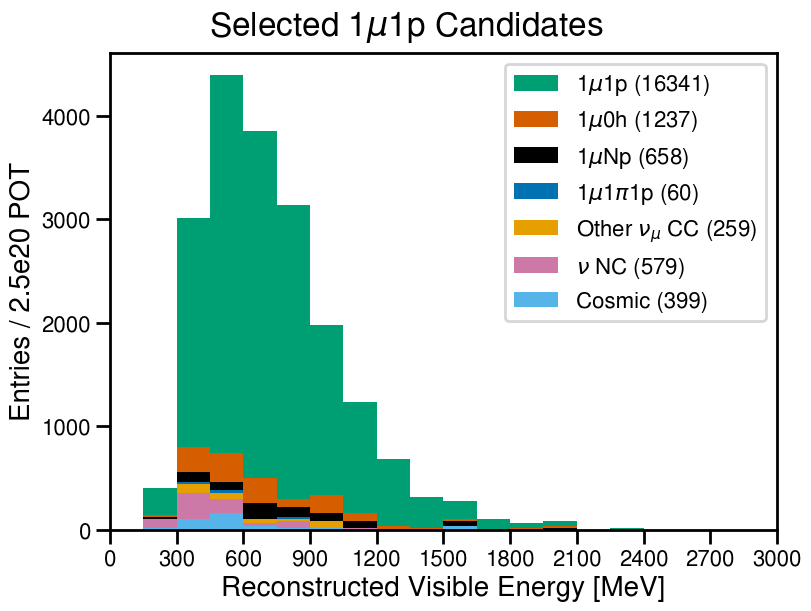
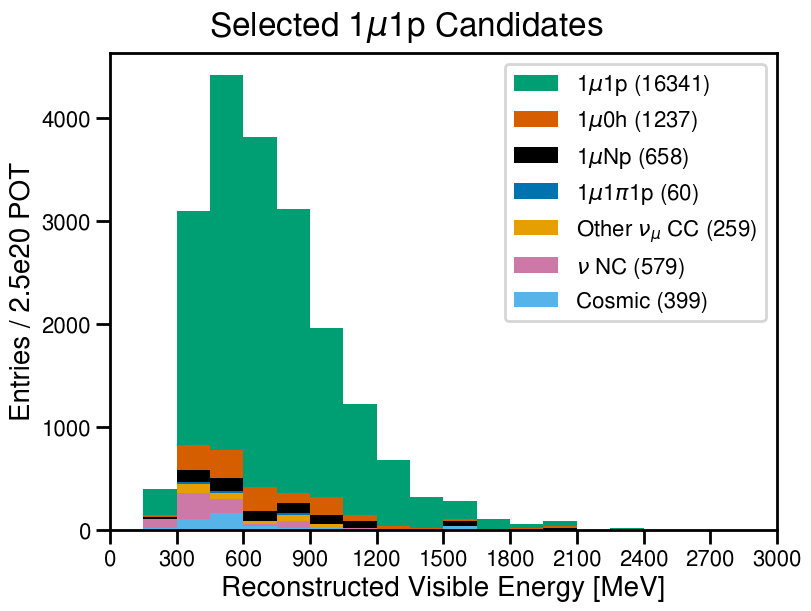
Updated reco energy to include calorimetric energy from showers

diff --git a/include/variables.h b/include/variables.h
@@ -107,9 +107,13 @@ namespace vars
             double energy(0);
             for(const auto & p : interaction.particles)
             {
-                if(p.is_primary)
+                if(p.is_primary && p.pid < 2)
+                    energy += p.calo_ke;
+                else if(p.is_primary)
+                {
                     energy += p.csda_ke;
-                if(p.pid == 2) energy += 105.658;
+                    if(p.pid == 2) energy += 105.658;
+                }
             }
             return energy;
         }
